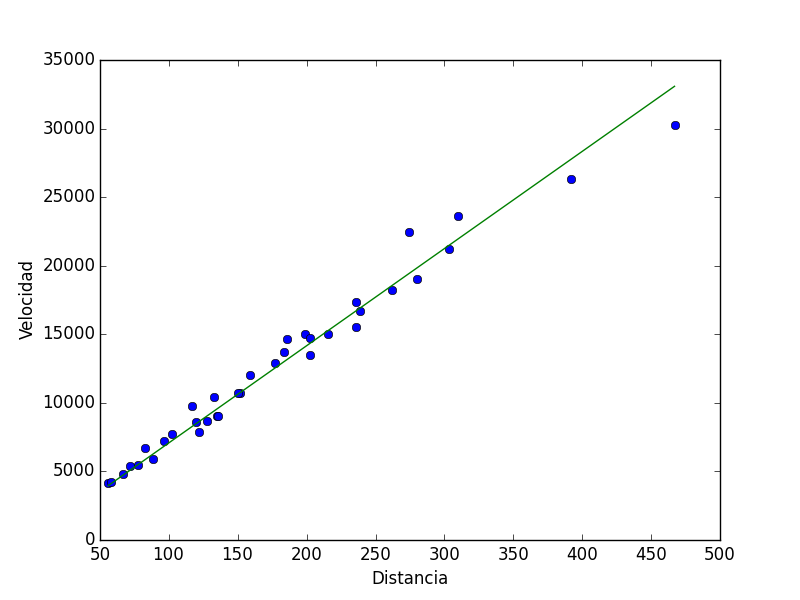
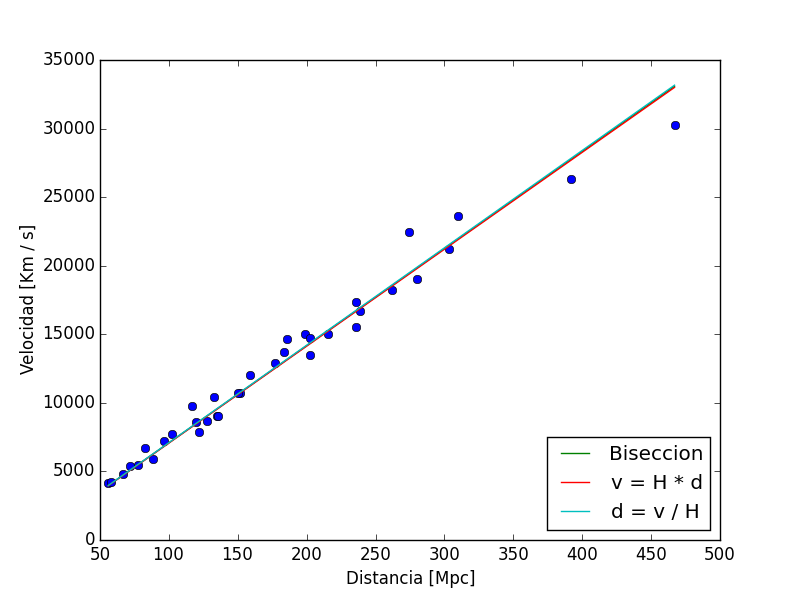
cambios en graficos

diff --git a/parte2.py b/parte2.py
@@ -40,7 +40,7 @@ def residuos(param, x, y):
 
 def aprox_leastsq(d, v, adivinanza):
     aprox = leastsq(residuos, adivinanza, args=(d, v))
-    return aprox
+    return aprox[0]
 
 
 def aprox_manual(x, y, beta_0):
@@ -98,13 +98,19 @@ datos = leer_archivo(nom)
 d = datos[:, 1]
 v = datos[:, 0]
 adivinanza = 500
-# aproximacion manual + biseccion
-aprox2 = biseccion(d, v, adivinanza)
-print aprox2
+# aprox via leastsq
+aprox1 = aprox_leastsq(d, v, adivinanza)
+aprox2 = 1. / aprox_leastsq(v, d, adivinanza)
+# aprox manual + biseccion
+H_0 = biseccion(d, v, adivinanza)
+print H_0
+print aprox1, aprox2
 # datos para graficar
 d_min = np.amin(d)
 d_max = np. amax(d)
 d_aprox = np.linspace(d_min, d_max, 10)
+v_aprox = y_aprox(d_aprox, H_0)
+v_aprox1 = y_aprox(d_aprox, aprox1)
 v_aprox2 = y_aprox(d_aprox, aprox2)
 # intervalo de confianza
 intervalo = intervalo_confianza(d, v, 95)
@@ -115,9 +121,13 @@ fig = plt.figure()
 fig.clf()
 ax1 = fig.add_subplot(111)
 ax1.plot(d, v, 'o')
-ax1.plot(d_aprox, v_aprox2)
-ax1.set_xlabel("Distancia")
-ax1.set_ylabel("Velocidad")
+ax1.plot(d_aprox, v_aprox, label="Biseccion")
+ax1.plot(d_aprox, v_aprox1, label="v = H * d")
+ax1.plot(d_aprox, v_aprox2, label="d = v / H")
+ax1.plot()
+ax1.set_xlabel("Distancia [Mpc]")
+ax1.set_ylabel("Velocidad [Km / s]")
+plt.legend(loc=4)
 plt.savefig("parte2.png")
 plt.draw()
 plt.show()

diff --git a/parte1.py b/parte1.py
@@ -48,7 +48,7 @@ def residuos(param, x, y):
 
 def aprox_leastsq(d, v, adivinanza):
     aprox = leastsq(residuos, adivinanza, args=(d, v))
-    return aprox
+    return aprox[0]
 
 
 def aprox_manual(x, y, beta_0):
@@ -110,12 +110,18 @@ v = datos[:, 1]
 adivinanza = 500
 # aprox via leastsq
 aprox1 = aprox_leastsq(d, v, adivinanza)
+aprox2 = 1. / aprox_leastsq(v, d, adivinanza)
 # aprox manual + biseccion
 H_0 = biseccion(d, v, adivinanza)
 print H_0
+print aprox1, aprox2
 # datos para graficar
-d_aprox = np.linspace(d[0], d[-1], 10)
-v_aprox2 = y_aprox(d_aprox, H_0)
+d_min = np.amin(d)
+d_max = np. amax(d)
+d_aprox = np.linspace(d_min, d_max, 10)
+v_aprox = y_aprox(d_aprox, H_0)
+v_aprox1 = y_aprox(d_aprox, aprox1)
+v_aprox2 = y_aprox(d_aprox, aprox2)
 # intervalo de confianza
 intervalo = intervalo_confianza(d, v, 95)
 print intervalo[0]
@@ -125,9 +131,13 @@ fig = plt.figure()
 fig.clf()
 ax1 = fig.add_subplot(111)
 ax1.plot(d, v, 'o')
-ax1.plot(d_aprox, v_aprox2)
-ax1.set_xlabel("Distancia")
-ax1.set_ylabel("Velocidad")
+ax1.plot(d_aprox, v_aprox, label="Biseccion")
+ax1.plot(d_aprox, v_aprox1, label="v = H * d")
+ax1.plot(d_aprox, v_aprox2, label="d = v / H")
+ax1.plot()
+ax1.set_xlabel("Distancia [Mpc]")
+ax1.set_ylabel("Velocidad [Km / s]")
+plt.legend(loc=4)
 plt.savefig("parte1.png")
 plt.draw()
 plt.show()

diff --git a/parte3.py b/parte3.py
@@ -21,7 +21,7 @@ def leer_archivo(nombre):
     nombre debe ser un str
     '''
     datos = np.loadtxt(nombre, usecols=(80, 81, 82, 83))
-    return datos
+    return datos * 3.631
 
 
 def y_aprox(x, param):
@@ -109,8 +109,8 @@ fig.clf()
 ax1 = fig.add_subplot(111)
 ax1.plot(i, z, 'o')
 ax1.plot(i_aprox, z_aprox2)
-ax1.set_xlabel("d")
-ax1.set_ylabel("v(d)")
+ax1.set_xlabel("Flujo de banda i")
+ax1.set_ylabel("Flujo de banda z")
 plt.savefig("parte1.png")
 plt.draw()
 plt.show()
